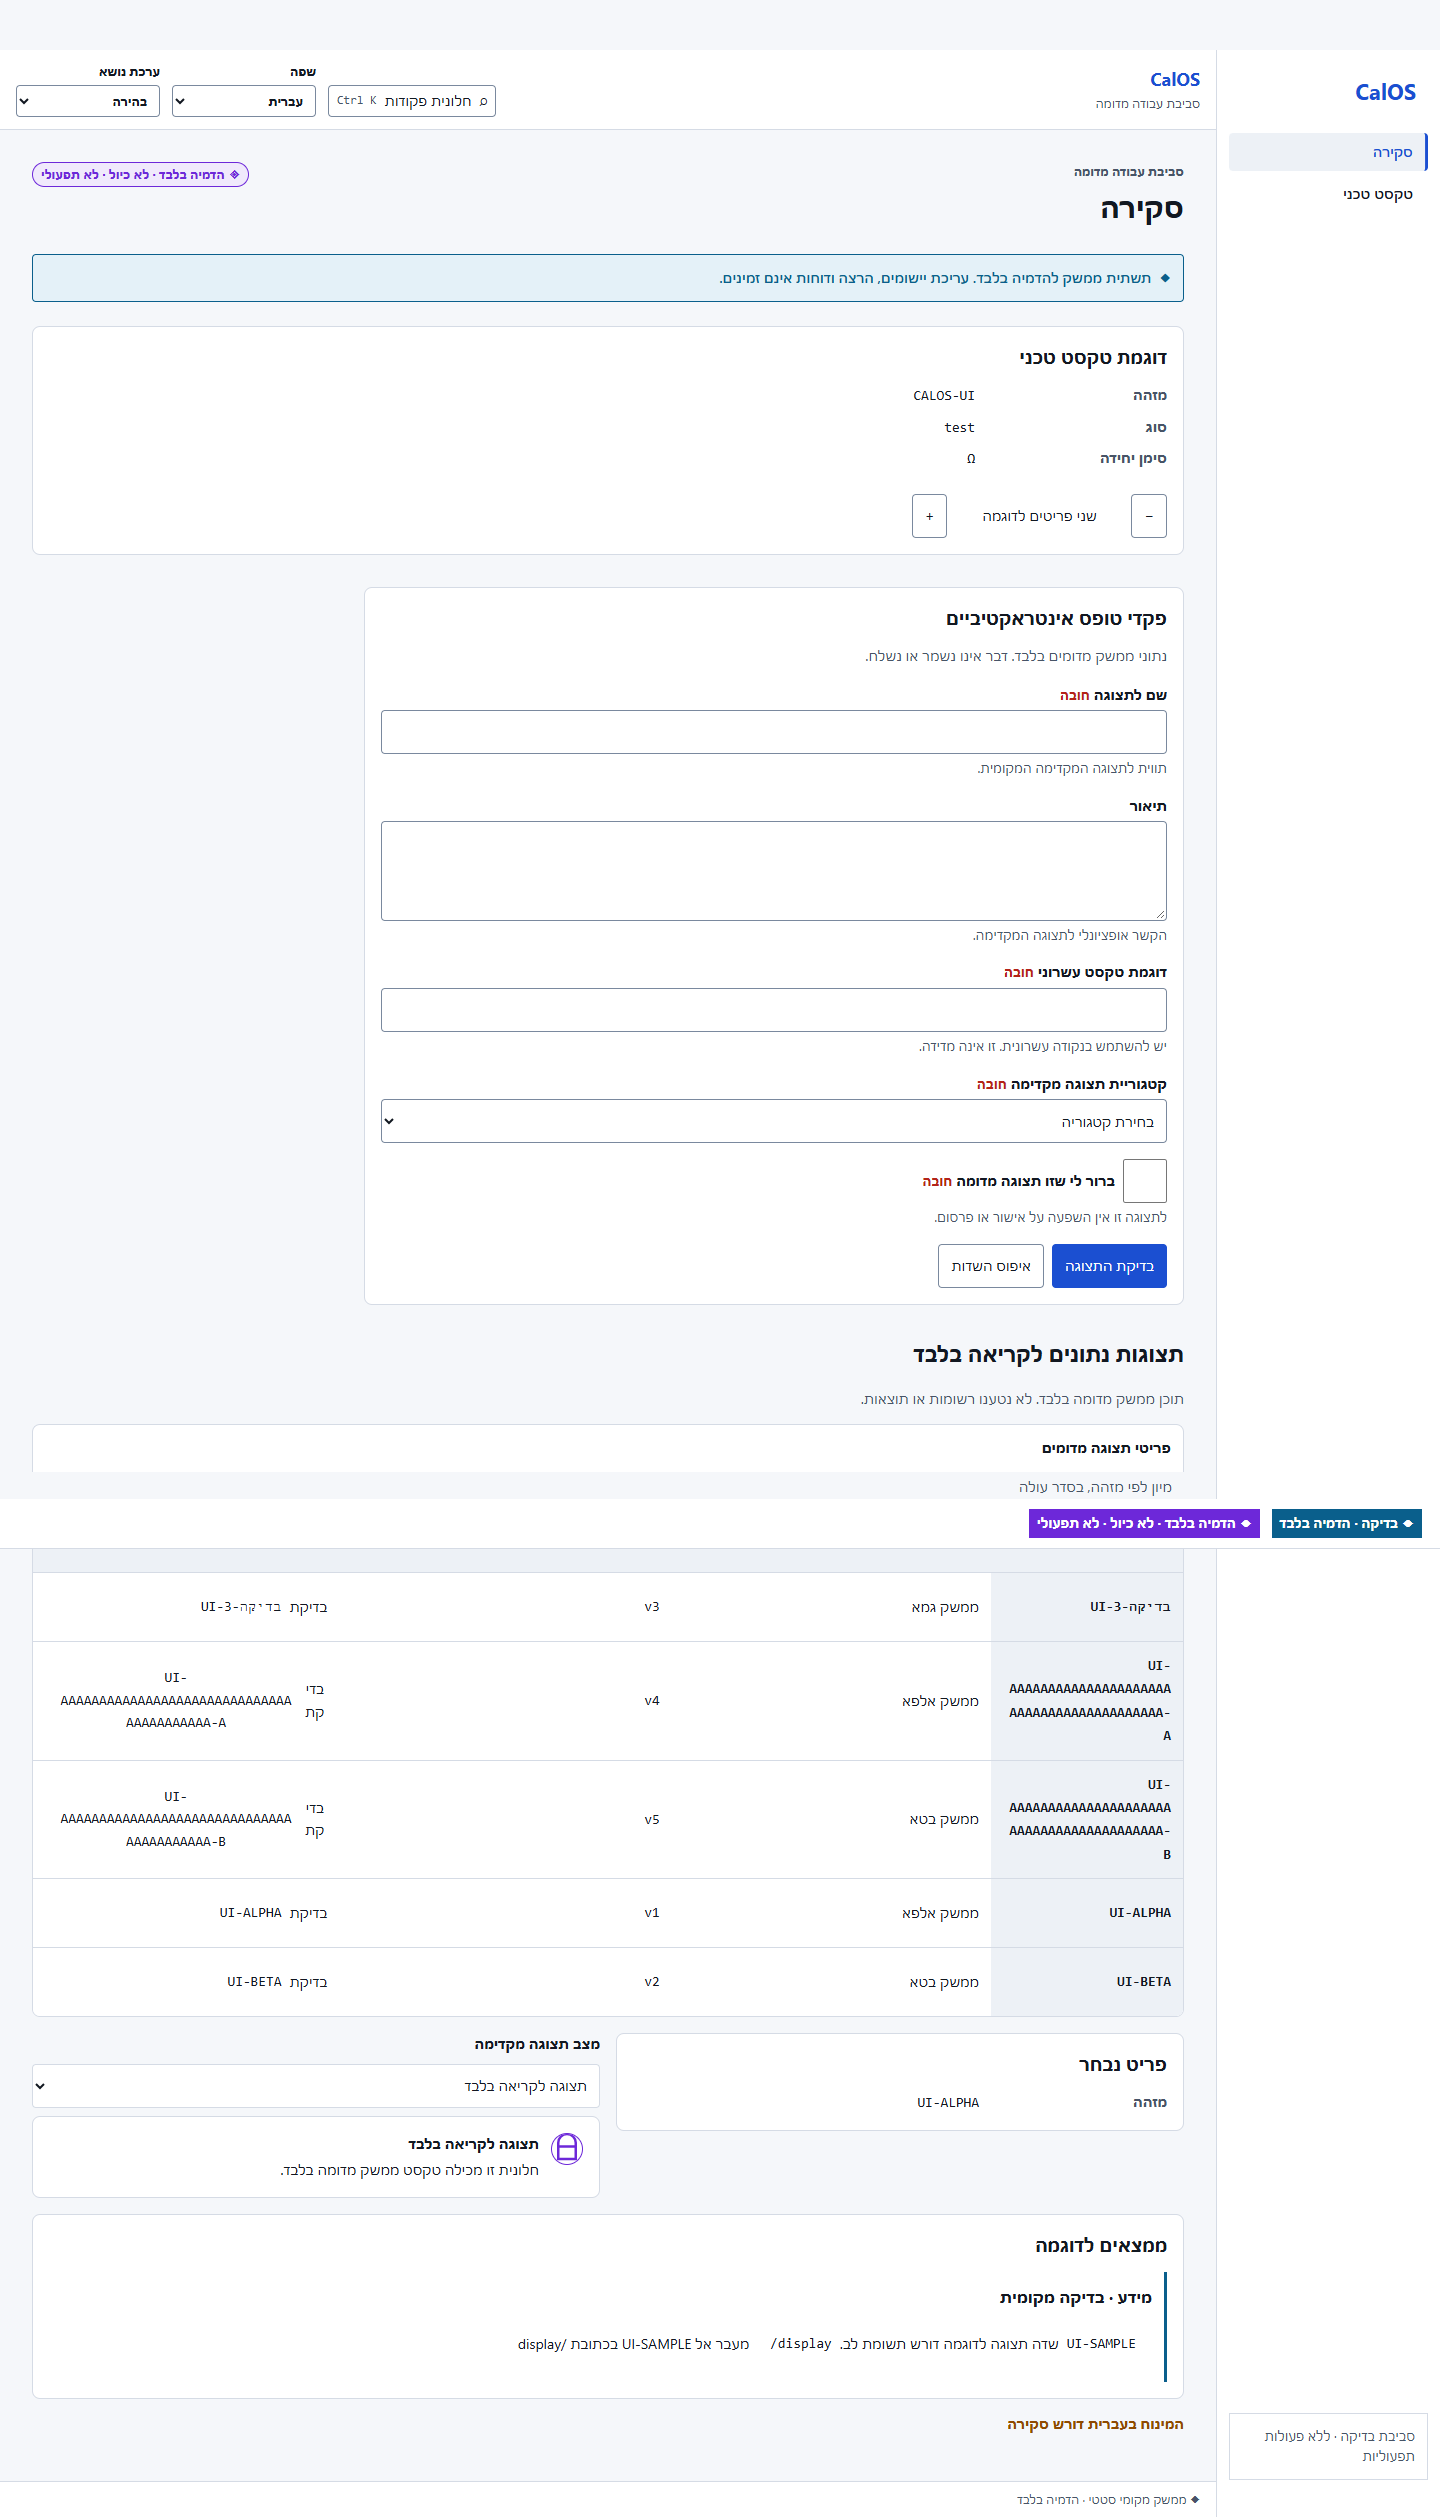
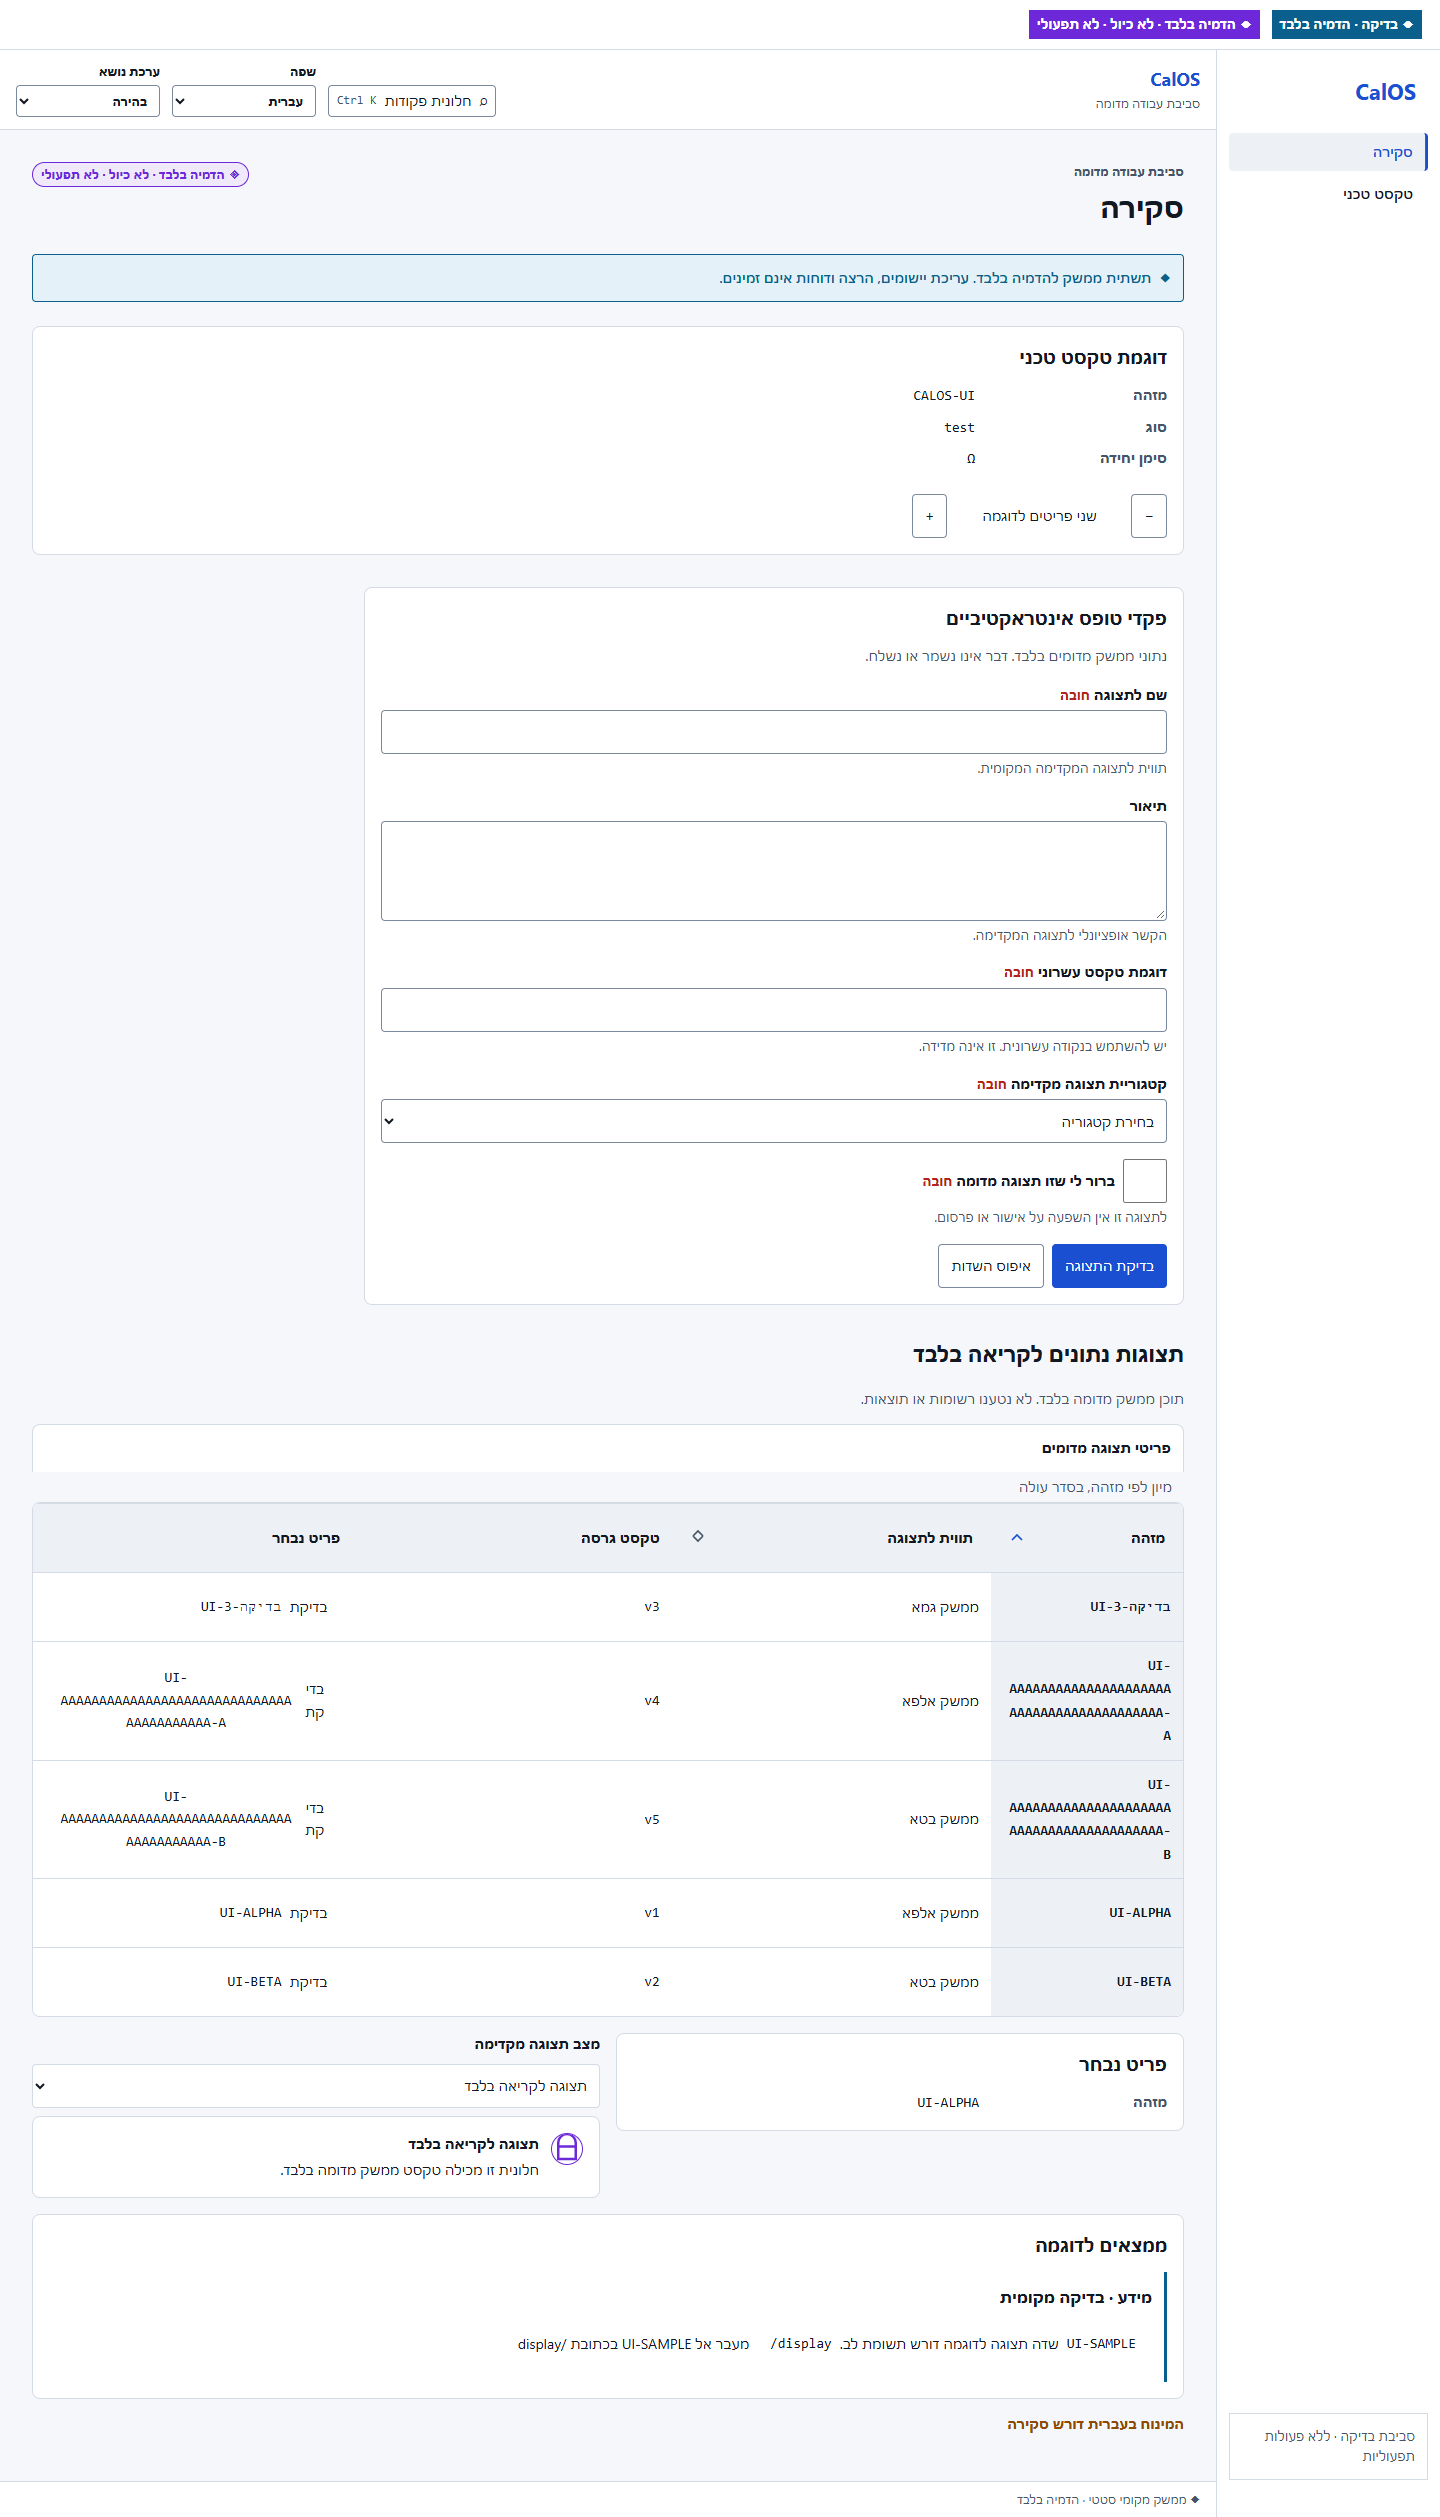
test(web): capture full-page views from page top

Changed region(s): [[0.7188, 0.5888, 1.0, 0.6198], [0.7188, 0.0, 1.0, 0.031], [0.625, 0.5888, 0.6562, 0.6198]]

diff --git a/tests/frontend/data-views.e2e.spec.ts b/tests/frontend/data-views.e2e.spec.ts
@@ -78,6 +78,8 @@ test("read-only views reflow, sort and remain keyboard accessible in every local
     }
     if (locale === "en" || locale === "he") {
       await page.locator("#theme").selectOption("light");
+      await page.evaluate(() => window.scrollTo(0, 0));
+      await expect.poll(() => page.evaluate(() => window.scrollY)).toBe(0);
       await page.screenshot({
         path: `artifacts/screenshots/data-app-${locale}.png`,
         fullPage: true,
